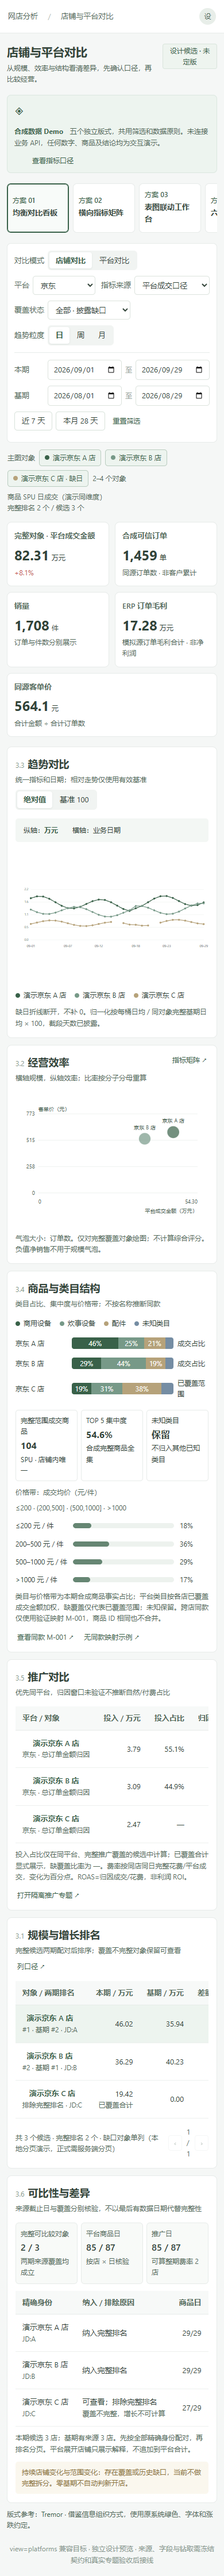
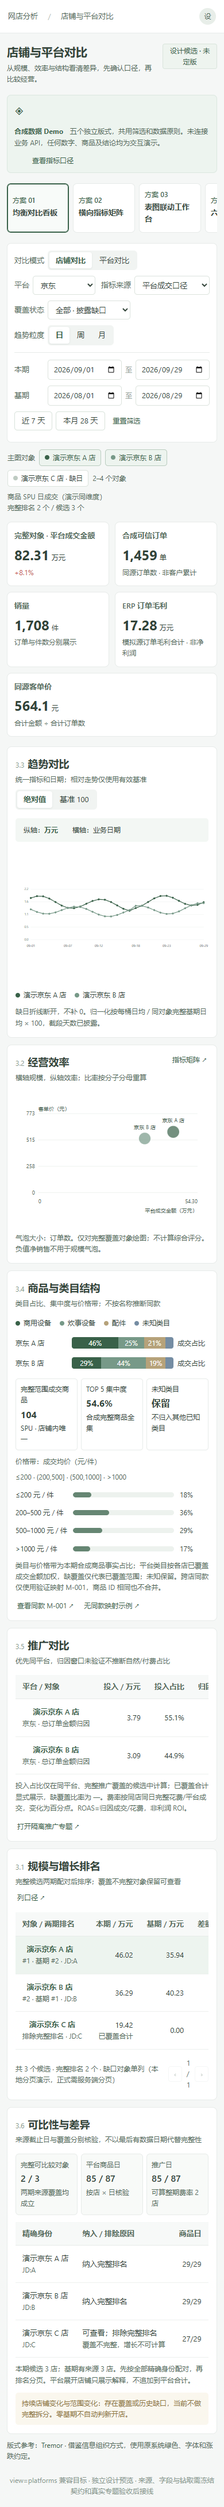
fix(netshop): disclose ERP coverage and exclude negative scale bubbles

diff --git a/app/netshop/comparison/demo/demo.js b/app/netshop/comparison/demo/demo.js
@@ -159,7 +159,10 @@
   }
   function card(title,number,body,span='span-6',subtitle='',tools=''){return `<section class="card ${span}" data-section="3.${number}"><div class="card-head"><div><h2><span class="section-no">3.${number}</span>${title}</h2>${subtitle?`<p>${subtitle}</p>`:''}</div>${tools?`<div class="card-tools">${tools}</div>`:''}</div>${body}</section>`;}
   function kpis(data){
-    const t=data.totals,rows=[['完整对象 · '+amountLabel(),money(t.current.amount),'万元',growthHTML(t)],['合成可信订单',n(t.current.orders),'单','同源订单数 · 非客户累计'],['销量',n(t.current.units),'件','订单与件数分别展示'],['ERP 订单毛利',money(t.current.grossProfit),'万元','模拟源订单毛利合计 · 非净利润'],['同源客单价',yuan(t.ratios.aov),'元','合计金额 ÷ 合计订单数']];
+    const t=data.totals,erpComplete=t.current.coverage.requested>0&&t.current.coverage.erp===t.current.coverage.requested;
+    const erpLabel=t.current.grossProfit===null?'ERP 订单毛利 · 缺源':erpComplete?'ERP 订单毛利':'ERP 订单毛利 · 已覆盖';
+    const erpFoot=erpComplete?'模拟源订单毛利合计 · 非净利润':`ERP 来源 ${t.current.coverage.erp}/${t.current.coverage.requested} 店日 · 其余未提供`;
+    const rows=[['完整对象 · '+amountLabel(),money(t.current.amount),'万元',growthHTML(t)],['合成可信订单',n(t.current.orders),'单','同源订单数 · 非客户累计'],['销量',n(t.current.units),'件','订单与件数分别展示'],[erpLabel,money(t.current.grossProfit),'万元',erpFoot],['同源客单价',yuan(t.ratios.aov),'元','合计金额 ÷ 合计订单数']];
     return `<div class="kpi-row">${rows.map(([label,value,unit,foot])=>`<div class="kpi-card"><div class="kpi-label">${label}</div><div class="kpi-value">${value}<small>${unit}</small></div><div class="kpi-foot">${foot}</div></div>`).join('')}</div>`;
   }
   function trend(data,large=false){
@@ -178,7 +181,7 @@
   }
   function trendCard(data,span='span-7'){return card('趋势对比',3,trend(data),span,'统一指标和日期；相对走势仅使用有效基准',`<div class="segment"><button data-action="normalize" data-id="false" class="${!state.normalized?'active':''}">绝对值</button><button data-action="normalize" data-id="true" data-testid="normalize-toggle" class="${state.normalized?'active':''}">基准 100</button></div>`);}
   function scatter(data){
-    const objects=data.selected.filter(o=>o.ratios.aov!==null&&o.current.amount!==null);
+    const objects=data.selected.filter(o=>o.status==='available'&&o.ratios.aov!==null&&o.current.amount!==null&&o.current.amount>=0);
     const W=440,H=248,L=52,R=25,T=20,B=48,maxX=Math.max(1,...objects.map(o=>Math.abs(o.current.amount)))*1.18,maxY=Math.max(1,...objects.map(o=>o.ratios.aov))*1.3;
     let svg=`<svg class="chart-svg" viewBox="0 0 ${W} ${H}" role="img" aria-label="规模与客单价分布"><text x="${L}" y="13">客单价（元）</text>`;
     for(let i=0;i<4;i++){const yy=H-B-i*(H-T-B)/3;svg+=`<line class="gridline" x1="${L}" x2="${W-R}" y1="${yy}" y2="${yy}"/><text x="${L-8}" y="${yy+4}" text-anchor="end">${n(maxY*i/3/100)}</text>`;}
